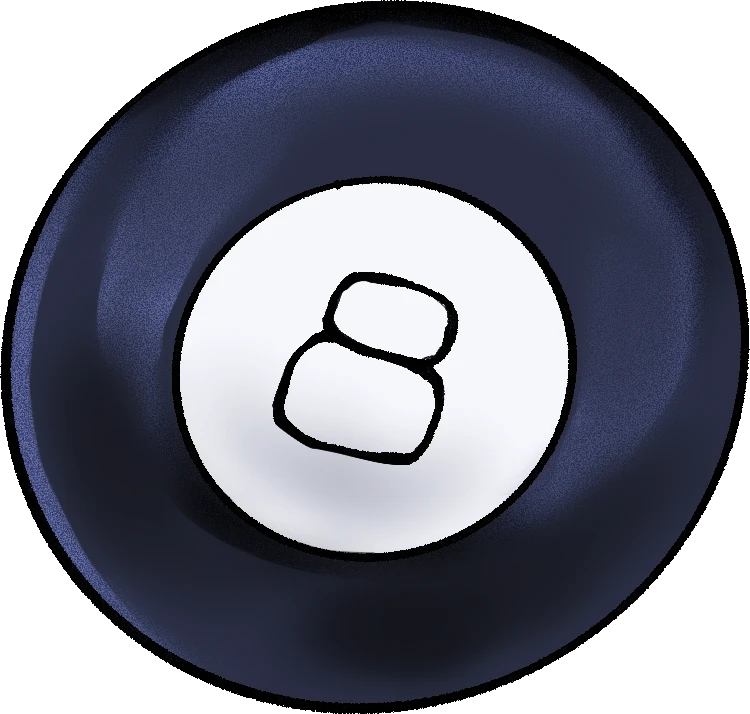
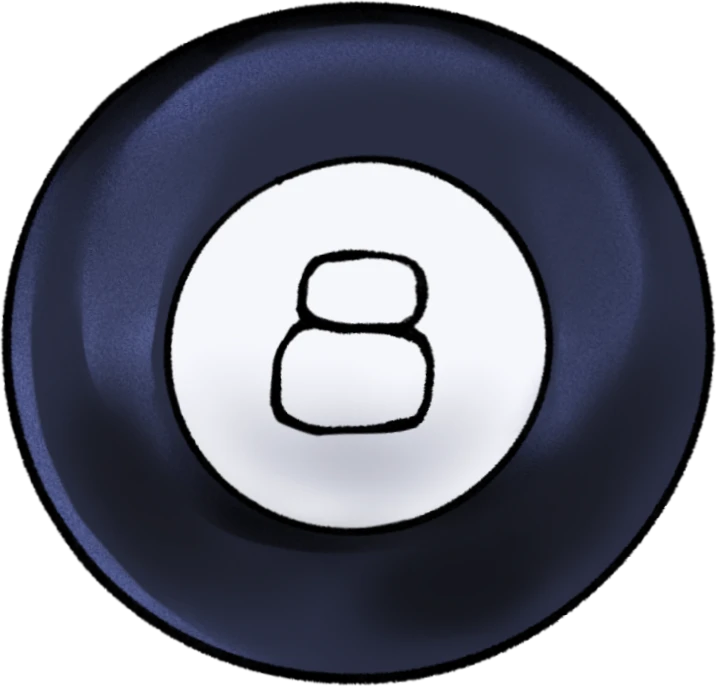
Магічна куля: підказка й кнопка «Потрусити», трясіння, кубик викочується й стає трикутником
Нові спрайти ball_back, ball_front, dice_roll, dice_still. Монета списується, коли кулю потрусили.
Спільні допоміжні Sprite та place винесено з Coffee.

diff --git a/src/components/Ball.tsx b/src/components/Ball.tsx
@@ -1,0 +1,94 @@
+import { useEffect, useState, type CSSProperties } from 'react';
+import { art } from '../art';
+import { MAGIC_BALL_ANSWERS } from '../data/oracles';
+import { place } from './place';
+import { Sprite } from './Sprite';
+
+const ASK_TEXT = 'Загадайте одне просте питання, на яке можна відповісти «так» або «ні» та потрусіть кулю.';
+
+/** Рамка сцени: кулька з запасом по 40 px, щоб вона могла трястися, не виходячи за межі. */
+const BOX = { x: 257, y: 783, w: 800, h: 766 };
+
+/** Місце для відповіді на синьому трикутнику (dice_still), у пікселях полотна. Трикутник вужчий донизу. */
+const ANSWER = { x: 544, y: 1066, w: 222, h: 76 };
+
+type Phase = 'ask' | 'shake' | 'roll' | 'done';
+
+/** Скільки триває кожна стадія, мс; збігається з анімаціями в styles.css. */
+const AUTO: Partial<Record<Phase, [number, Phase]>> = {
+  shake: [1300, 'roll'],
+  roll: [2000, 'done'],
+};
+
+const pick = <T,>(list: readonly T[]) => list[Math.floor(Math.random() * list.length)];
+
+/** Короткі відповіді крупніше, довгі переносяться на два рядки й стають дрібнішими. */
+const answerSize = (answer: string) => (answer.length <= 7 ? '9cqw' : answer.length <= 13 ? '5.4cqw' : '4.4cqw');
+
+interface Props {
+  /** Викликається, коли кулю потрусили: тоді списується монета. */
+  onReveal: () => void;
+  onClose: () => void;
+}
+
+/** Магічна куля: підказка й кнопка, потім куля трясеться, з її віконця викочується кубик і зупиняється з відповіддю. */
+export function BallRitual({ onReveal, onClose }: Props) {
+  const [phase, setPhase] = useState<Phase>('ask');
+  const [answer, setAnswer] = useState('');
+
+  useEffect(() => {
+    const auto = AUTO[phase];
+    if (!auto) return;
+    const id = setTimeout(() => setPhase(auto[1]), auto[0]);
+    return () => clearTimeout(id);
+  }, [phase]);
+
+  const shake = () => {
+    setAnswer(pick(MAGIC_BALL_ANSWERS));
+    onReveal();
+    setPhase('shake');
+  };
+
+  const back = art('magic_ball/ball_back');
+  const front = art('magic_ball/ball_front');
+  const answerBox: CSSProperties = {
+    left: `${((ANSWER.x - BOX.x) / BOX.w) * 100}%`,
+    top: `${((ANSWER.y - BOX.y) / BOX.h) * 100}%`,
+    width: `${(ANSWER.w / BOX.w) * 100}%`,
+    height: `${(ANSWER.h / BOX.h) * 100}%`,
+    fontSize: answerSize(answer),
+  };
+
+  return (
+    <>
+      <button className="backdrop dim" aria-label="Закрити" onClick={onClose} />
+      <div className="frame oracle cf-frame" role="dialog" aria-label="Магічна куля">
+        <button className="close" aria-label="Закрити" onClick={onClose}>×</button>
+        <div className="oracle-scroll">
+          <div className="oracle-body cf-body">
+            <div className="bl-wrap">
+              <div className="cf bl" data-phase={phase} style={{ aspectRatio: `${BOX.w} / ${BOX.h}` }}>
+                <div className="bl-ball">
+                  <Sprite name="magic_ball/ball_back" className="bl-back" style={place(back, BOX)} />
+                  <Sprite name="magic_ball/ball_front" className="bl-front" style={place(front, BOX)} />
+                  <Sprite name="magic_ball/dice_roll" className="bl-roll" style={place(art('magic_ball/dice_roll'), BOX)} />
+                  <Sprite name="magic_ball/dice_still" className="bl-still" style={place(art('magic_ball/dice_still'), BOX)} />
+                  <span className="bl-answer" style={answerBox}>{answer}</span>
+                </div>
+              </div>
+            </div>
+
+            <p className={phase === 'ask' ? 'cf-text' : 'cf-text bl-hint-out'}>{ASK_TEXT}</p>
+
+            {phase === 'ask' && <button className="reply done cf-action" onClick={shake}>Потрусити</button>}
+            {phase === 'done' && <button className="reply done cf-action" onClick={onClose}>Гаразд</button>}
+            {(phase === 'shake' || phase === 'roll') && (
+              // Невидима кнопка тримає місце, щоб куля не зсувалась.
+              <button className="reply done cf-action ghost" tabIndex={-1} aria-hidden="true" disabled>Потрусити</button>
+            )}
+          </div>
+        </div>
+      </div>
+    </>
+  );
+}

diff --git a/src/styles.css b/src/styles.css
@@ -393,7 +393,7 @@ button {
   50% { transform: scale(1.08); }
 }
 
-.reveal > :is(img, .ball, .dice, .hexagram) {
+.reveal > :is(img, .dice, .hexagram) {
   animation: reveal 0.45s cubic-bezier(0.2, 1.3, 0.4, 1);
 }
 @keyframes reveal {
@@ -440,30 +440,6 @@ button {
   height: auto;
   fill: var(--line);
 }
-.ball {
-  position: relative;
-  display: block;
-  width: 76cqw;
-  height: auto;
-  container-type: inline-size;
-}
-.ball img {
-  display: block;
-  width: 100%;
-  height: auto;
-}
-.ball-answer {
-  position: absolute;
-  display: grid;
-  place-items: center;
-  font-family: var(--head);
-  font-weight: 700;
-  line-height: 1;
-  text-align: center;
-  text-wrap: balance;
-  color: #e6f3ff;
-}
-
 .result-title {
   margin: 3.4cqw 0 0;
   font-family: var(--head);
@@ -945,4 +921,102 @@ button {
   font-size: 3.6cqw;
   text-decoration: underline;
   text-underline-offset: 0.6cqw;
+}
+
+/* ---------- магічна куля ---------- */
+
+.bl-wrap {
+  width: 80cqw;
+}
+.bl-ball {
+  position: absolute;
+  inset: 0;
+}
+.bl-ball img {
+  position: absolute;
+}
+
+/* підказка зникає, коли кулю потрусили, але місце під нею лишається */
+.cf-text.bl-hint-out {
+  opacity: 0;
+  transition: opacity 0.35s ease;
+}
+
+.bl-front,
+.bl-roll,
+.bl-still,
+.bl-answer {
+  opacity: 0;
+}
+
+/* трясіння: куля мотається, наприкінці «8» змінюється на віконце */
+.bl[data-phase='shake'] .bl-ball {
+  animation: bl-shake 1.3s ease-in-out;
+}
+@keyframes bl-shake {
+  0%, 100% { transform: none; }
+  6% { transform: translate(-3cqw, 1.2cqw) rotate(-7deg); }
+  14% { transform: translate(3.4cqw, -1.4cqw) rotate(8deg); }
+  22% { transform: translate(-3.4cqw, 1cqw) rotate(-8deg); }
+  31% { transform: translate(3.2cqw, 1.4cqw) rotate(7deg); }
+  40% { transform: translate(-3cqw, -1.2cqw) rotate(-7deg); }
+  50% { transform: translate(2.6cqw, 1cqw) rotate(6deg); }
+  61% { transform: translate(-2cqw, -0.8cqw) rotate(-4.5deg); }
+  73% { transform: translate(1.4cqw, 0.6cqw) rotate(3deg); }
+  86% { transform: translate(-0.6cqw, 0) rotate(-1.2deg); }
+}
+.bl[data-phase='shake'] .bl-back {
+  animation: bl-out 0.3s ease-in 0.95s forwards;
+}
+.bl[data-phase='shake'] .bl-front {
+  animation: bl-in 0.3s ease-out 0.95s forwards;
+}
+.bl[data-phase='roll'] .bl-back,
+.bl[data-phase='done'] .bl-back {
+  opacity: 0;
+}
+.bl[data-phase='roll'] .bl-front,
+.bl[data-phase='done'] .bl-front {
+  opacity: 1;
+}
+@keyframes bl-out { to { opacity: 0; } }
+@keyframes bl-in { to { opacity: 1; } }
+
+/* кубик викочується з глибини віконця, обертаючись, і плавно переходить у синій трикутник */
+.bl[data-phase='roll'] .bl-roll {
+  animation: bl-roll 1.45s cubic-bezier(0.25, 0.8, 0.3, 1) forwards;
+}
+@keyframes bl-roll {
+  0% { opacity: 0; transform: translateY(-6%) scale(0.22) rotate(-320deg); }
+  22% { opacity: 1; }
+  62% { opacity: 1; transform: translateY(4%) scale(1.05) rotate(10deg); }
+  100% { opacity: 0; transform: translateY(5%) scale(1) rotate(0deg); }
+}
+.bl[data-phase='roll'] .bl-still {
+  animation: bl-settle 0.55s ease-out 0.9s forwards;
+}
+.bl[data-phase='done'] .bl-still {
+  opacity: 1;
+}
+@keyframes bl-settle {
+  from { opacity: 0; transform: translateY(-3%) scale(0.88); }
+  to { opacity: 1; transform: none; }
+}
+
+.bl-answer {
+  position: absolute;
+  display: grid;
+  place-items: center;
+  font-family: var(--head);
+  font-weight: 700;
+  line-height: 1;
+  text-align: center;
+  text-wrap: balance;
+  color: #e6f3ff;
+}
+.bl[data-phase='roll'] .bl-answer {
+  animation: bl-in 0.5s ease-out 1.4s forwards;
+}
+.bl[data-phase='done'] .bl-answer {
+  opacity: 1;
 }

diff --git a/src/components/Oracles.tsx b/src/components/Oracles.tsx
@@ -2,10 +2,10 @@ import { useState, type ReactNode } from 'react';
 import { art } from '../art';
 import { HEXAGRAMS, type Hexagram } from '../data/iching';
 import { MO_READINGS, MO_SYLLABLES } from '../data/mo';
-import { MAGIC_BALL_ANSWERS } from '../data/oracles';
 import { splitReading, TAROT_CARDS, tarotArtKey, type TarotCard } from '../data/tarot';
 import type { Character, SystemId } from '../data/types';
 import { Astro } from './Astro';
+import { BallRitual } from './Ball';
 import { CoffeeRitual, type CoffeeRun } from './Coffee';
 
 const pick = <T,>(list: readonly T[]) => list[Math.floor(Math.random() * list.length)];
@@ -86,39 +86,6 @@ function Tarot({ character, onReveal, onClose }: OracleProps) {
   );
 }
 
-// Синій трикутник на ball_front, у частках від розміру кулі.
-const BALL_TRIANGLE = { left: 33.2, width: 35, top: 35, height: 18 };
-
-/** Короткі відповіді — крупніше, довгі переносяться на два рядки й стають дрібнішими. */
-const answerSize = (answer: string) => (answer.length <= 7 ? '8.4cqw' : answer.length <= 13 ? '5.6cqw' : '4.2cqw');
-
-function Ball({ onReveal, onClose }: OracleProps) {
-  return (
-    <RevealOracle<string>
-      label="Магічна куля"
-      roll={() => pick(MAGIC_BALL_ANSWERS)}
-      onReveal={onReveal}
-      onClose={onClose}
-      back={<div className="ball"><Img name="magic_ball/ball_back" /></div>}
-      result={(answer) => (
-        <div className="ball">
-          <Img name="magic_ball/ball_front" />
-          <span
-            className="ball-answer"
-            style={{ ...pos(BALL_TRIANGLE), fontSize: answerSize(answer) }}
-          >
-            {answer}
-          </span>
-        </div>
-      )}
-    />
-  );
-}
-
-const pos = (r: { left: number; width: number; top: number; height: number }) => ({
-  left: `${r.left}%`, width: `${r.width}%`, top: `${r.top}%`, height: `${r.height}%`,
-});
-
 /** Шість ліній гексаграми знизу вгору: суцільна — ян, перервана — інь. */
 function HexagramLines({ lines }: { lines: number[] }) {
   return (
@@ -183,7 +150,7 @@ function Mo({ onReveal, onClose }: OracleProps) {
 export function Oracle({ system, ...props }: OracleProps & { system: SystemId }) {
   switch (system) {
     case 'tarot': return <Tarot {...props} />;
-    case 'ball': return <Ball {...props} />;
+    case 'ball': return <BallRitual onReveal={props.onReveal} onClose={props.onClose} />;
     case 'coffee': return <CoffeeRitual character={props.character} run={props.coffee ?? { mode: 'new', topic: 'events' }} onReveal={props.onReveal} onClose={props.onClose} />;
     case 'iching': return <IChing {...props} />;
     case 'mo': return <Mo {...props} />;

diff --git a/src/components/Coffee.tsx b/src/components/Coffee.tsx
@@ -2,6 +2,8 @@ import { useEffect, useRef, useState, type CSSProperties } from 'react';
 import { art } from '../art';
 import { COFFEE_SYMBOLS, TOPIC_INDEX, type CoffeeTopic } from '../data/coffee';
 import type { Character } from '../data/types';
+import { place } from './place';
+import { Sprite } from './Sprite';
 import { CUP, drawCoffee, saveCoffee, symbolScale, todaysCoffee, type CoffeeReading } from '../game/coffee';
 
 /** Як відкрито ворожіння: нове за обраною темою або перечитування сьогоднішнього. */
@@ -32,16 +34,6 @@ const AUTO: Partial<Record<Phase, [number, Phase]>> = {
 };
 
 const pct = (v: number, of: number) => `${(v / of) * 100}%`;
-
-/** Положення спрайта в рамці зі сторонами `box`, коли відомі координати на полотні. */
-function place(a: { x?: number; y?: number; w: number; h: number }, box: { x: number; y: number; w: number; h: number }): CSSProperties {
-  return { left: pct((a.x ?? 0) - box.x, box.w), top: pct((a.y ?? 0) - box.y, box.h), width: pct(a.w, box.w) };
-}
-
-function Sprite({ name, className, style }: { name: string; className?: string; style?: CSSProperties }) {
-  const a = art(name);
-  return <img className={className} src={a.src} width={a.w} height={a.h} alt="" draggable={false} style={style} />;
-}
 
 // ---------- екран 1: пакетик і стаканчик ----------
 

diff --git a/src/components/place.ts b/src/components/place.ts
@@ -1,0 +1,8 @@
+import type { CSSProperties } from 'react';
+
+const pct = (v: number, of: number) => `${(v / of) * 100}%`;
+
+/** Положення спрайта в рамці зі сторонами `box`, коли відомі його координати на полотні. */
+export function place(a: { x?: number; y?: number; w: number; h: number }, box: { x: number; y: number; w: number; h: number }): CSSProperties {
+  return { left: pct((a.x ?? 0) - box.x, box.w), top: pct((a.y ?? 0) - box.y, box.h), width: pct(a.w, box.w) };
+}

diff --git a/src/components/Sprite.tsx b/src/components/Sprite.tsx
@@ -1,0 +1,7 @@
+import type { CSSProperties } from 'react';
+import { art } from '../art';
+
+export function Sprite({ name, className, style }: { name: string; className?: string; style?: CSSProperties }) {
+  const a = art(name);
+  return <img className={className} src={a.src} width={a.w} height={a.h} alt="" draggable={false} style={style} />;
+}
